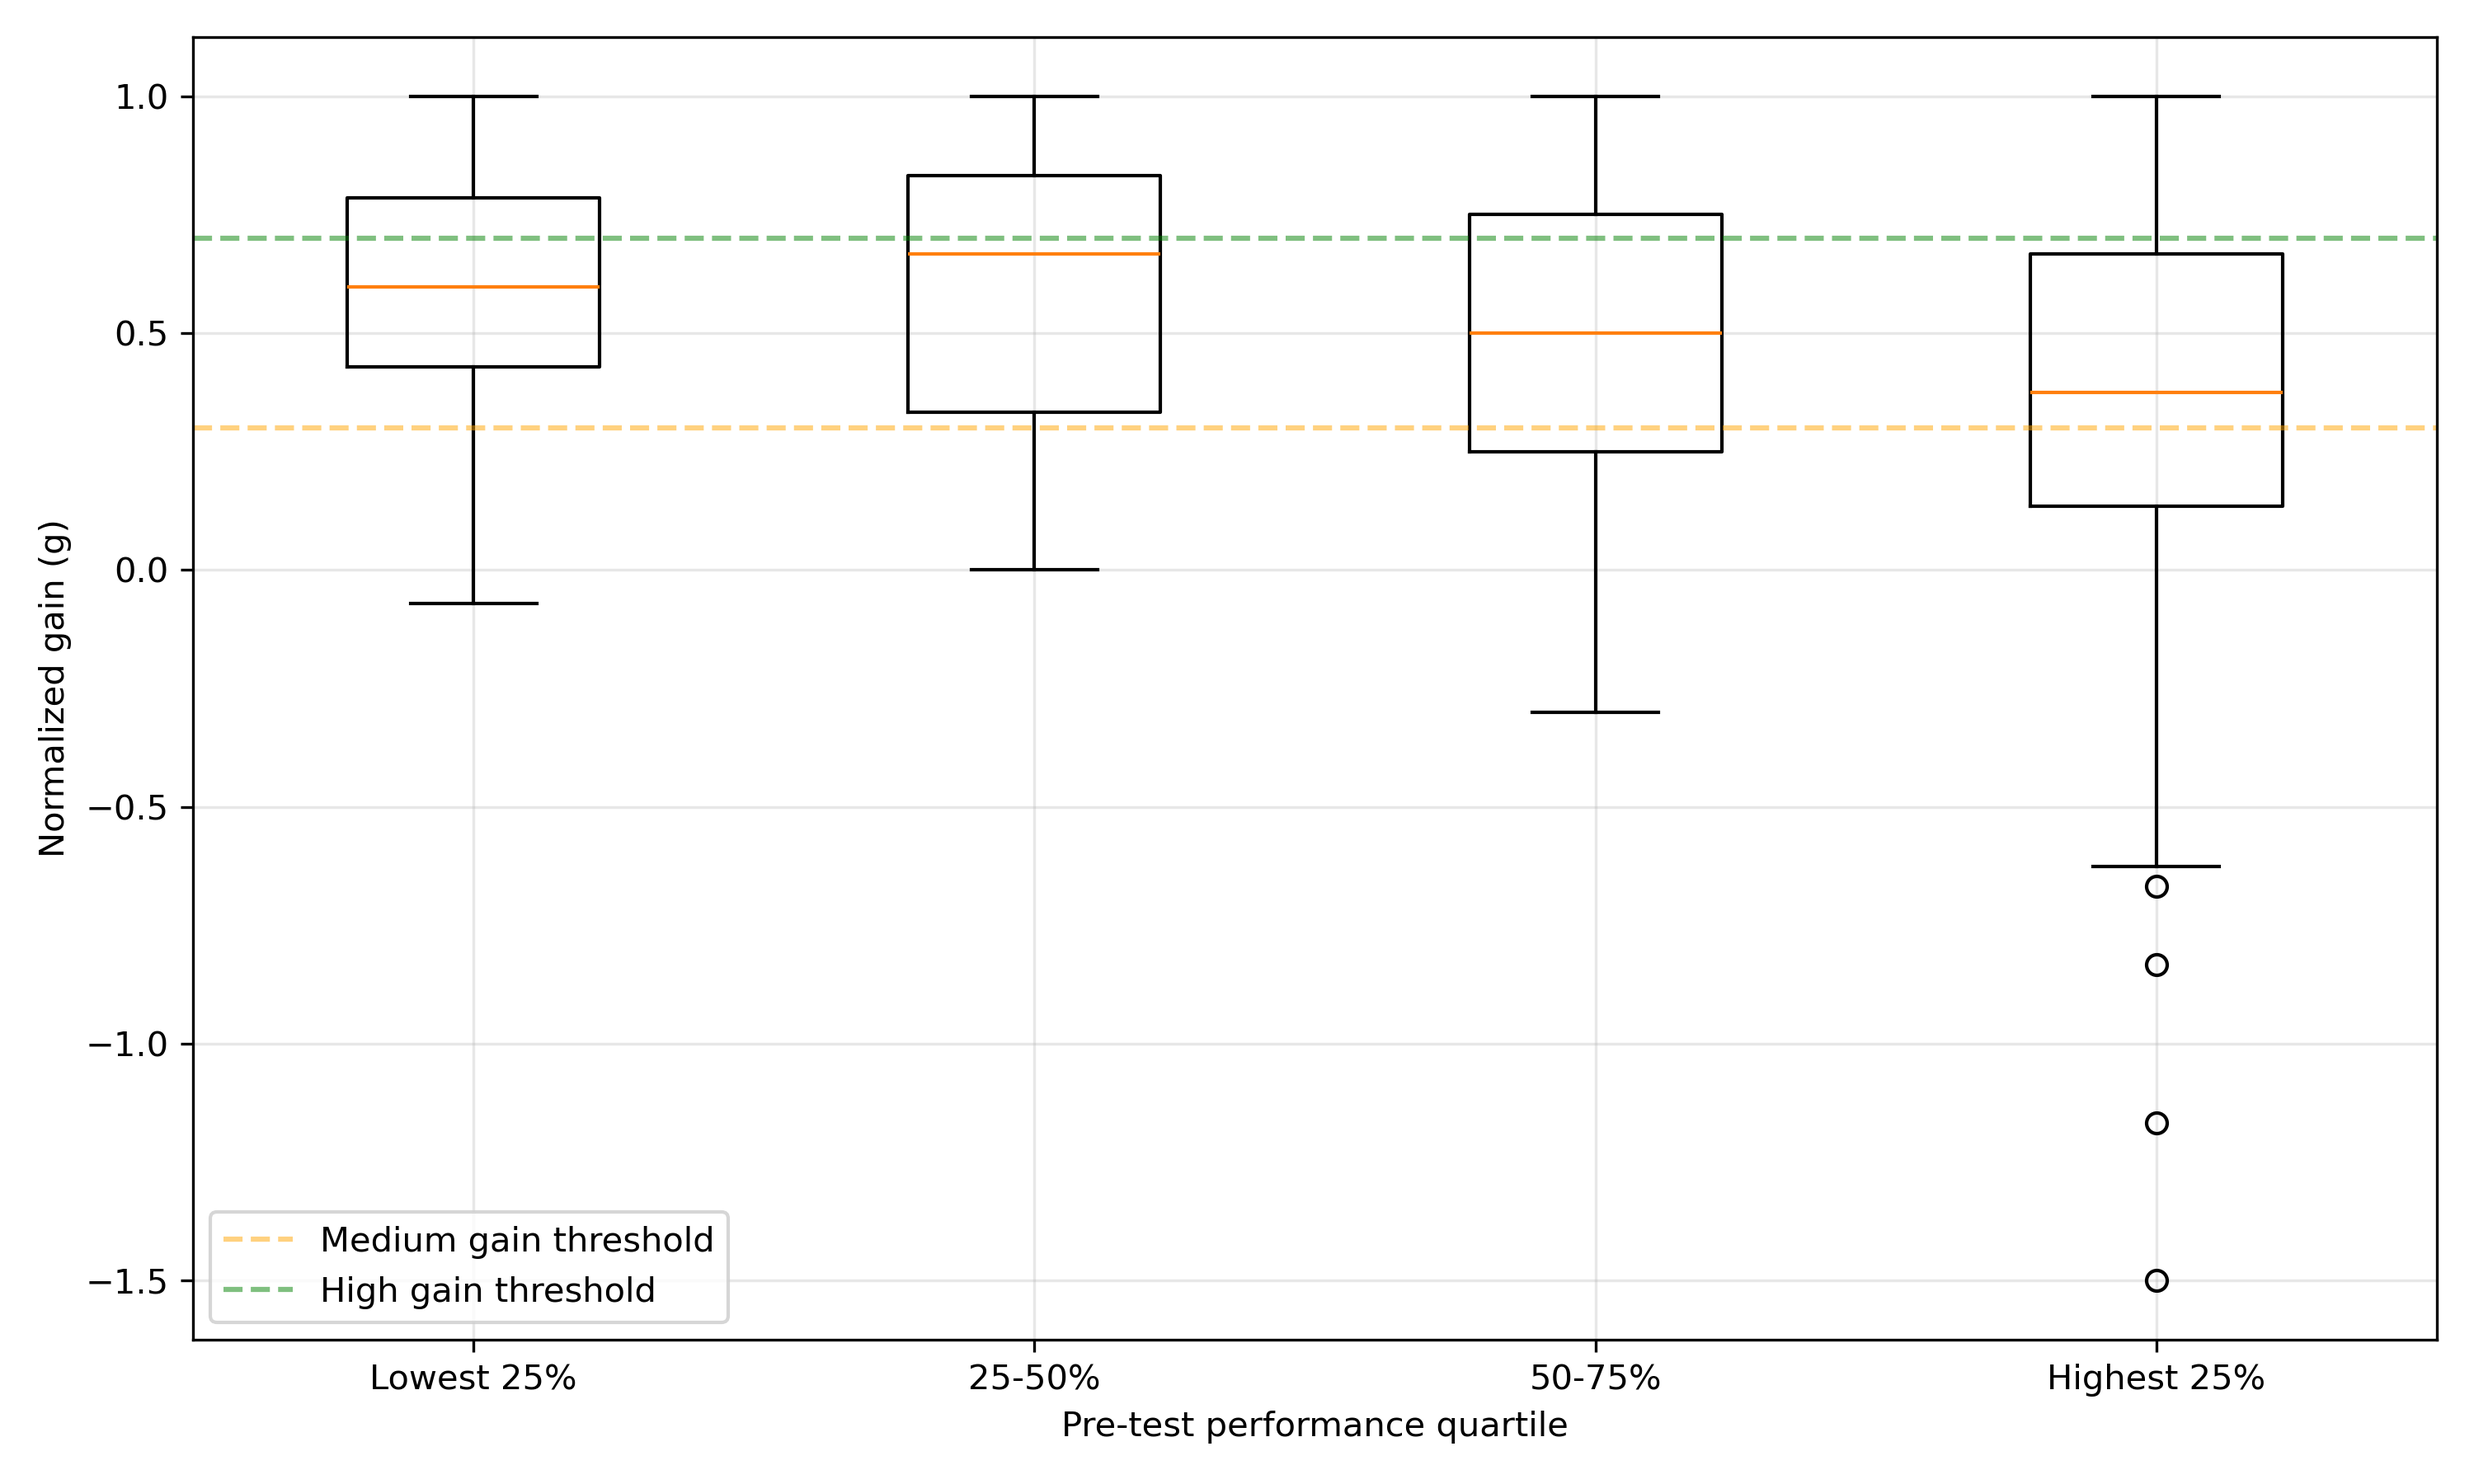
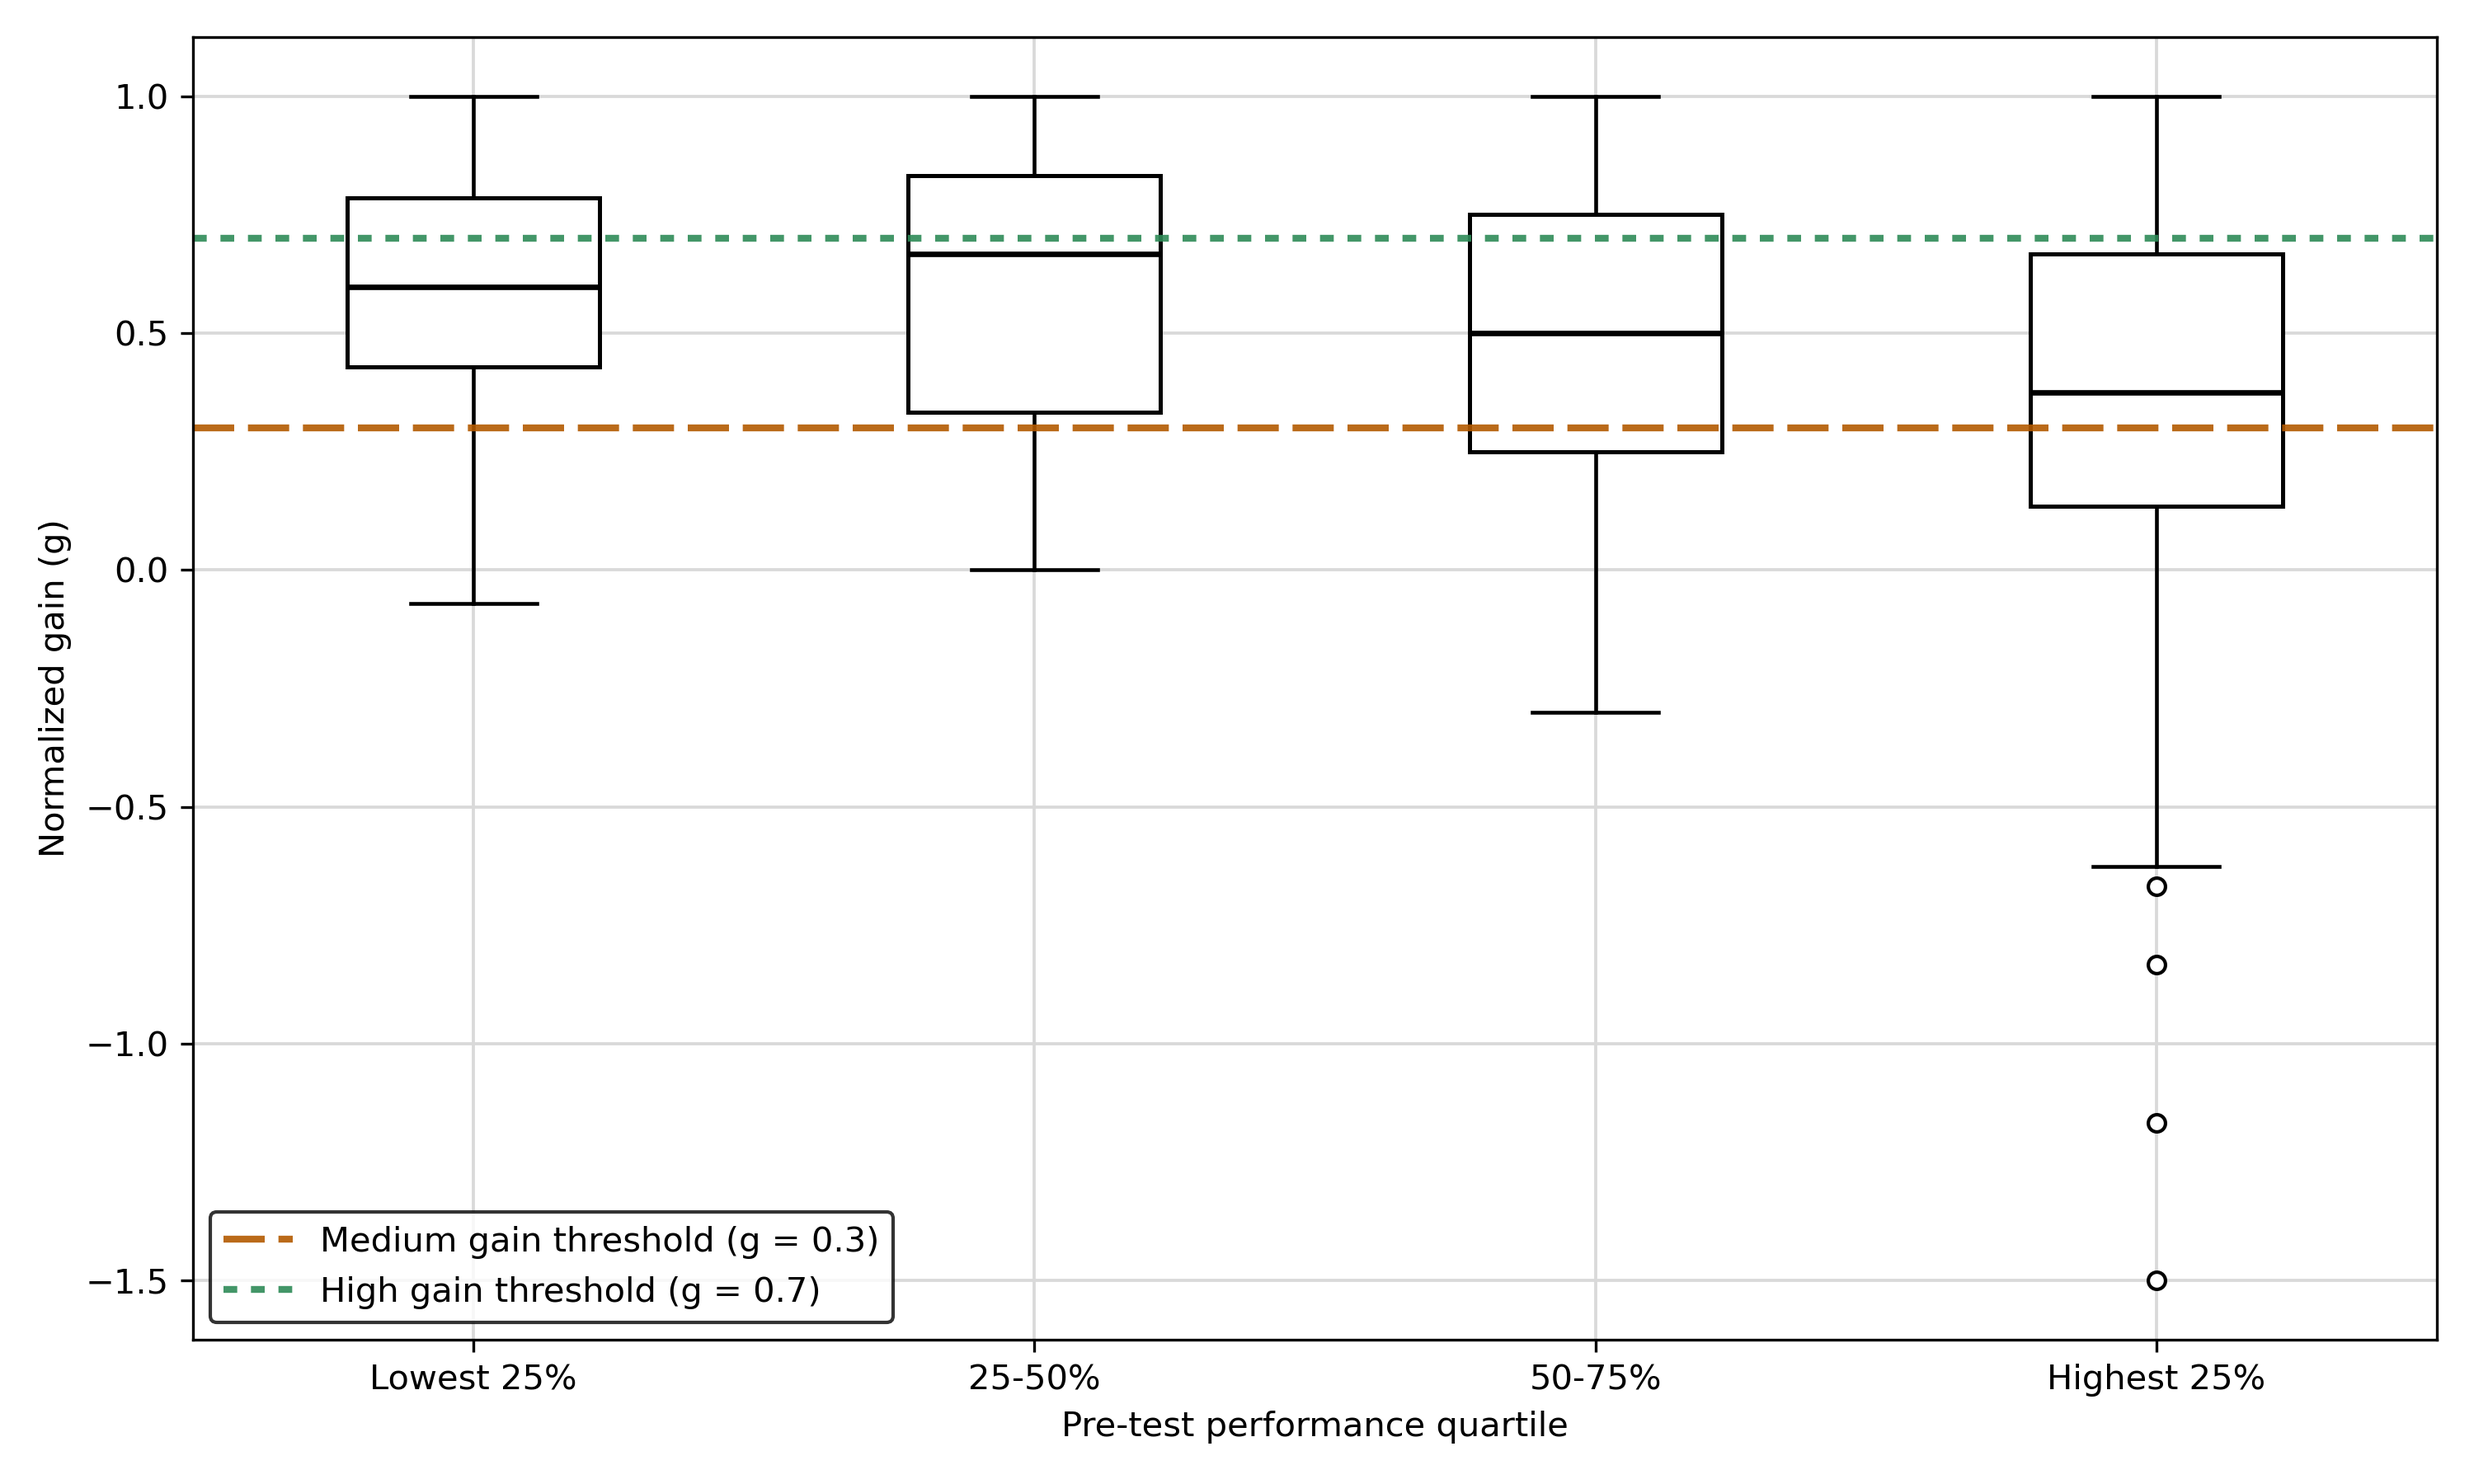
Update reports, analysis scripts, and figures after reviewer revisions

diff --git a/scripts/analyze.py b/scripts/analyze.py
@@ -378,11 +378,28 @@ def main(pre_path, post_path, out_dir):
     # Keep matrix readable: totals + items + gain
     corr_cols = ["pre_total", "post_total"] + pre_items + post_items + ["gain"]
     corr_cols = [c for c in corr_cols if c in merged_all_items.columns]
+    corr = merged_all_items[corr_cols].corr(method="pearson")
+
+    # Save full correlation matrix for reproducibility/public sharing
+    corr_rounded = corr.round(3)
+    corr_rounded.to_csv(os.path.join(reports, "correlation_matrix_full.csv"), index=True)
+
+    # GitHub-friendly markdown version (no optional dependencies required)
+    md_path = os.path.join(reports, "correlation_matrix_full.md")
+    headers = ["Variable"] + list(corr_rounded.columns)
+    with open(md_path, "w", encoding="utf-8") as f:
+        f.write("# Full Pearson Correlation Matrix\n\n")
+        f.write("Rows/columns include totals, all pre/post items, and raw gain.\n\n")
+        f.write("| " + " | ".join(headers) + " |\n")
+        f.write("|" + "|".join(["---"] * len(headers)) + "|\n")
+        for idx, row in corr_rounded.iterrows():
+            vals = []
+            for v in row.tolist():
+                vals.append("NA" if pd.isna(v) else f"{float(v):.3f}")
+            f.write("| " + " | ".join([str(idx)] + vals) + " |\n")
 
     # Only render if size is manageable for a single-page figure
     if len(corr_cols) <= 22:
-        corr = merged_all_items[corr_cols].corr(method="pearson")
-
         # Wider figure and a full-height colorbar axis so the colorbar is not squashed.
         fig = plt.figure(figsize=(14, 10))
         ax = fig.add_axes([0.08, 0.08, 0.72, 0.84])  # main heatmap area
@@ -472,14 +489,24 @@ def main(pre_path, post_path, out_dir):
 
     plt.figure(figsize=(10, 6))
     data = [merged[merged["pre_quartile"] == q]["normalized_gain"] for q in ["Q1", "Q2", "Q3", "Q4"]]  # NOW CORRECT
-    plt.boxplot(data, labels=["Lowest 25%", "25-50%", "50-75%", "Highest 25%"])
+    plt.boxplot(
+        data,
+        labels=["Lowest 25%", "25-50%", "50-75%", "Highest 25%"],
+        patch_artist=True,
+        boxprops=dict(facecolor="white", edgecolor="black", linewidth=1.2),
+        medianprops=dict(color="black", linewidth=1.6),
+        whiskerprops=dict(color="black", linewidth=1.1),
+        capprops=dict(color="black", linewidth=1.1),
+        flierprops=dict(marker='o', markerfacecolor='white', markeredgecolor='black', markersize=5, linestyle='none')
+    )
     plt.xlabel("Pre-test performance quartile")
-    plt.axhline(y=0.3, color='orange', linestyle='--', alpha=0.5, label='Medium gain threshold')
-    plt.axhline(y=0.7, color='green', linestyle='--', alpha=0.5, label='High gain threshold')
+    # Print-friendly colors: visible in color print without dominating the figure
+    plt.axhline(y=0.3, color='#B35A00', linestyle=(0, (6, 2)), linewidth=2.0, alpha=0.9, label='Medium gain threshold (g = 0.3)')
+    plt.axhline(y=0.7, color='#2E8B57', linestyle=(0, (2, 2)), linewidth=2.0, alpha=0.9, label='High gain threshold (g = 0.7)')
     plt.ylabel("Normalized gain (g)")
     # Removed title to avoid redundancy with caption
-    plt.legend()
-    plt.grid(True, alpha=0.3)
+    plt.legend(frameon=True, facecolor='white', edgecolor='black')
+    plt.grid(True, color='0.85', linewidth=0.9)
     plt.tight_layout()
     plt.savefig(os.path.join(figs, "boxplot_normalized_gain_by_quartile.png"), dpi=300)
     plt.close()

diff --git a/data/processed/reports/correlation_matrix_full.md b/data/processed/reports/correlation_matrix_full.md
@@ -1,0 +1,25 @@
+# Full Pearson Correlation Matrix
+
+Rows/columns include totals, all pre/post items, and raw gain.
+
+| Variable | pre_total | post_total | Q1 | Q2 | Q3 | Q4 | Q5 | Q6 | Q7 | Q8 | Q9 | Q10 | P1 | P2 | P3i | P3ii | P4 | P5 | gain |
+|---|---|---|---|---|---|---|---|---|---|---|---|---|---|---|---|---|---|---|---|
+| pre_total | 1.000 | 0.223 | 0.430 | 0.380 | 0.189 | 0.171 | 0.248 | 0.417 | 0.366 | 0.462 | 0.320 | 0.390 | -0.020 | 0.210 | 0.051 | 0.069 | 0.172 | 0.157 | -0.550 |
+| post_total | 0.223 | 1.000 | 0.158 | 0.015 | -0.144 | -0.004 | -0.071 | 0.178 | 0.180 | 0.228 | 0.121 | 0.103 | 0.307 | 0.728 | 0.568 | 0.619 | 0.418 | 0.580 | 0.691 |
+| Q1 | 0.430 | 0.158 | 1.000 | 0.133 | -0.044 | -0.160 | -0.003 | 0.135 | 0.038 | 0.066 | 0.138 | 0.120 | 0.112 | 0.197 | -0.038 | 0.019 | 0.169 | 0.045 | -0.184 |
+| Q2 | 0.380 | 0.015 | 0.133 | 1.000 | -0.046 | 0.065 | -0.061 | 0.045 | 0.080 | -0.115 | 0.066 | 0.084 | -0.056 | 0.134 | -0.170 | -0.144 | 0.019 | 0.077 | -0.269 |
+| Q3 | 0.189 | -0.144 | -0.044 | -0.046 | 1.000 | -0.143 | 0.140 | -0.043 | -0.129 | 0.019 | -0.150 | 0.005 | -0.045 | -0.163 | -0.104 | -0.034 | -0.033 | -0.047 | -0.263 |
+| Q4 | 0.171 | -0.004 | -0.160 | 0.065 | -0.143 | 1.000 | -0.130 | -0.022 | 0.046 | -0.029 | 0.041 | -0.142 | -0.034 | 0.010 | 0.015 | -0.034 | -0.000 | 0.002 | -0.130 |
+| Q5 | 0.248 | -0.071 | -0.003 | -0.061 | 0.140 | -0.130 | 1.000 | -0.148 | -0.060 | 0.170 | 0.022 | -0.134 | -0.075 | -0.097 | 0.045 | 0.030 | -0.187 | 0.008 | -0.244 |
+| Q6 | 0.417 | 0.178 | 0.135 | 0.045 | -0.043 | -0.022 | -0.148 | 1.000 | 0.191 | 0.167 | -0.045 | 0.134 | 0.000 | 0.116 | 0.046 | 0.065 | 0.205 | 0.143 | -0.157 |
+| Q7 | 0.366 | 0.180 | 0.038 | 0.080 | -0.129 | 0.046 | -0.060 | 0.191 | 1.000 | 0.058 | -0.087 | 0.160 | -0.013 | 0.168 | 0.158 | 0.160 | 0.095 | 0.015 | -0.117 |
+| Q8 | 0.462 | 0.228 | 0.066 | -0.115 | 0.019 | -0.029 | 0.170 | 0.167 | 0.058 | 1.000 | 0.057 | 0.141 | 0.010 | 0.124 | 0.130 | 0.149 | 0.089 | 0.203 | -0.147 |
+| Q9 | 0.320 | 0.121 | 0.138 | 0.066 | -0.150 | 0.041 | 0.022 | -0.045 | -0.087 | 0.057 | 1.000 | 0.071 | 0.052 | 0.170 | 0.029 | -0.005 | 0.146 | -0.003 | -0.133 |
+| Q10 | 0.390 | 0.103 | 0.120 | 0.084 | 0.005 | -0.142 | -0.134 | 0.134 | 0.160 | 0.141 | 0.071 | 1.000 | -0.020 | 0.054 | 0.087 | 0.040 | 0.090 | 0.081 | -0.201 |
+| P1 | -0.020 | 0.307 | 0.112 | -0.056 | -0.045 | -0.034 | -0.075 | 0.000 | -0.013 | 0.010 | 0.052 | -0.020 | 1.000 | 0.020 | 0.091 | 0.118 | 0.066 | 0.200 | 0.278 |
+| P2 | 0.210 | 0.728 | 0.197 | 0.134 | -0.163 | 0.010 | -0.097 | 0.116 | 0.168 | 0.124 | 0.170 | 0.054 | 0.020 | 1.000 | 0.185 | 0.215 | 0.274 | 0.227 | 0.468 |
+| P3i | 0.051 | 0.568 | -0.038 | -0.170 | -0.104 | 0.015 | 0.045 | 0.046 | 0.158 | 0.130 | 0.029 | 0.087 | 0.091 | 0.185 | 1.000 | 0.836 | 0.086 | 0.011 | 0.448 |
+| P3ii | 0.069 | 0.619 | 0.019 | -0.144 | -0.034 | -0.034 | 0.030 | 0.065 | 0.160 | 0.149 | -0.005 | 0.040 | 0.118 | 0.215 | 0.836 | 1.000 | 0.143 | 0.061 | 0.480 |
+| P4 | 0.172 | 0.418 | 0.169 | 0.019 | -0.033 | -0.000 | -0.187 | 0.205 | 0.095 | 0.089 | 0.146 | 0.090 | 0.066 | 0.274 | 0.086 | 0.143 | 1.000 | 0.093 | 0.230 |
+| P5 | 0.157 | 0.580 | 0.045 | 0.077 | -0.047 | 0.002 | 0.008 | 0.143 | 0.015 | 0.203 | -0.003 | 0.081 | 0.200 | 0.227 | 0.011 | 0.061 | 0.093 | 1.000 | 0.381 |
+| gain | -0.550 | 0.691 | -0.184 | -0.269 | -0.263 | -0.130 | -0.244 | -0.157 | -0.117 | -0.147 | -0.133 | -0.201 | 0.278 | 0.468 | 0.448 | 0.480 | 0.230 | 0.381 | 1.000 |
